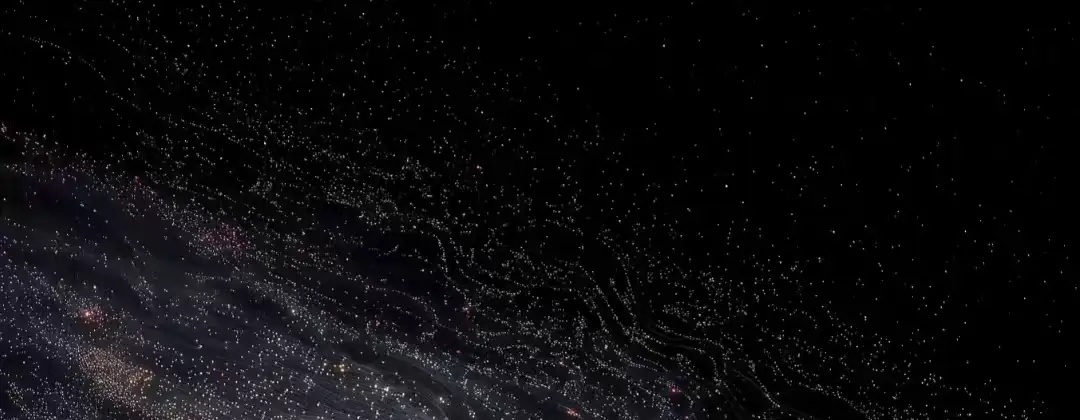
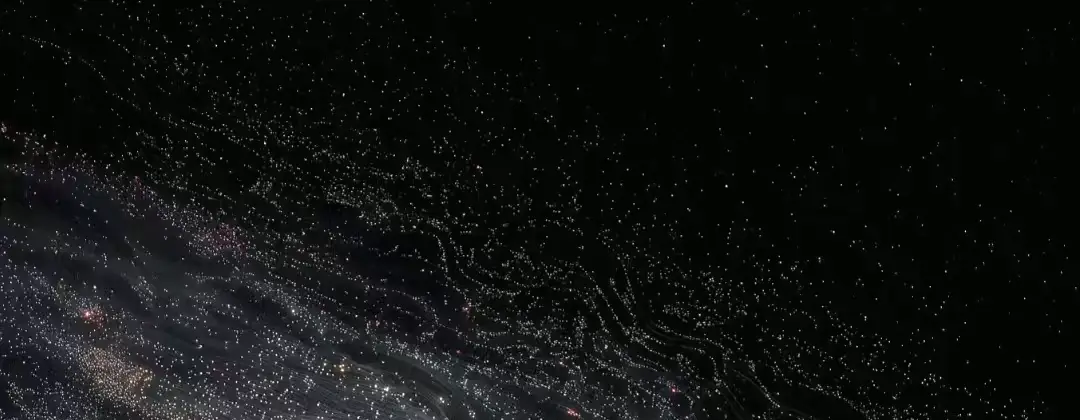
feat: 全视图统一星空底——技能/亮点/成长/教育共用调亮星尘纹理（去灰雾留夜黑+星点层次），移除旧 teal/frost 磨砂图与视图分色映射

Changed region(s): [[0.0611, 0.8357, 0.1222, 0.9595], [0.1833, 0.9595, 0.2139, 0.9905], [0.1528, 0.9905, 0.1833, 1.0]]

diff --git a/index.html b/index.html
@@ -1306,11 +1306,9 @@ html[data-theme="light"] .car-card.is-act{border-color:#0f172a;box-shadow:0 26px
 </style>
 </head>
 <body>
-<!-- 视图联动背景图（毛玻璃内容层之上透出；按视图交叉渐变） -->
+<!-- 全局星尘背景（毛玻璃内容层之上透出） -->
 <div class="bgfx no-print" aria-hidden="true">
   <img data-bg="dark" src="图片/bg/dark.webp" alt="" decoding="async">
-  <img data-bg="teal" alt="" decoding="async">
-  <img data-bg="frost" alt="" decoding="async">
 </div>
 <!-- 加载开场动画 -->
 <div class="loader" id="loader" aria-hidden="true">
@@ -2022,9 +2020,9 @@ const portalItems = [
   { id: "contact", tag: { zh: "联系方式", en: "CONTACT" }, icon: '<svg viewBox="0 0 24 24" fill="none" stroke="currentColor" stroke-width="1.6" stroke-linecap="round" stroke-linejoin="round"><path d="M4 4h16c1.1 0 2 .9 2 2v12c0 1.1-.9 2-2 2H4c-1.1 0-2-.9-2-2V6c0-1.1.9-2 2-2z"/><polyline points="22,6 12,13 2,6"/></svg>', desc: { zh: "邮箱 / 电话 / GitHub，欢迎实习机会与项目合作。", en: "Email / phone / GitHub — internships & collabs welcome." }, meta: { zh: "随时联系", en: "Reach me" } }
 ];
 
-/* 视图联动背景：三张纹理按视图轮换（深色打底统一，避免过多图拖慢加载） */
-const BG_SRC = { dark: "图片/bg/dark.webp", teal: "图片/bg/teal.webp", frost: "图片/bg/frost.webp" };
-const BG_OF = { home: "dark", objective: "dark", highlights: "teal", experience: "frost", projects: "dark", skills: "teal", education: "frost", contact: "dark" };
+/* 全视图统一星尘底纹（未来如需按视图差异化，在此加回映射即可） */
+const BG_SRC = { dark: "图片/bg/dark.webp" };
+const BG_OF = { home: "dark", objective: "dark", highlights: "dark", experience: "dark", projects: "dark", skills: "dark", education: "dark", contact: "dark" };
 let curBgKey = null;
 function setBg(view) {
   const key = BG_OF[view] || "dark"; /* 浅色模式由 CSS 隐藏背景层 */
